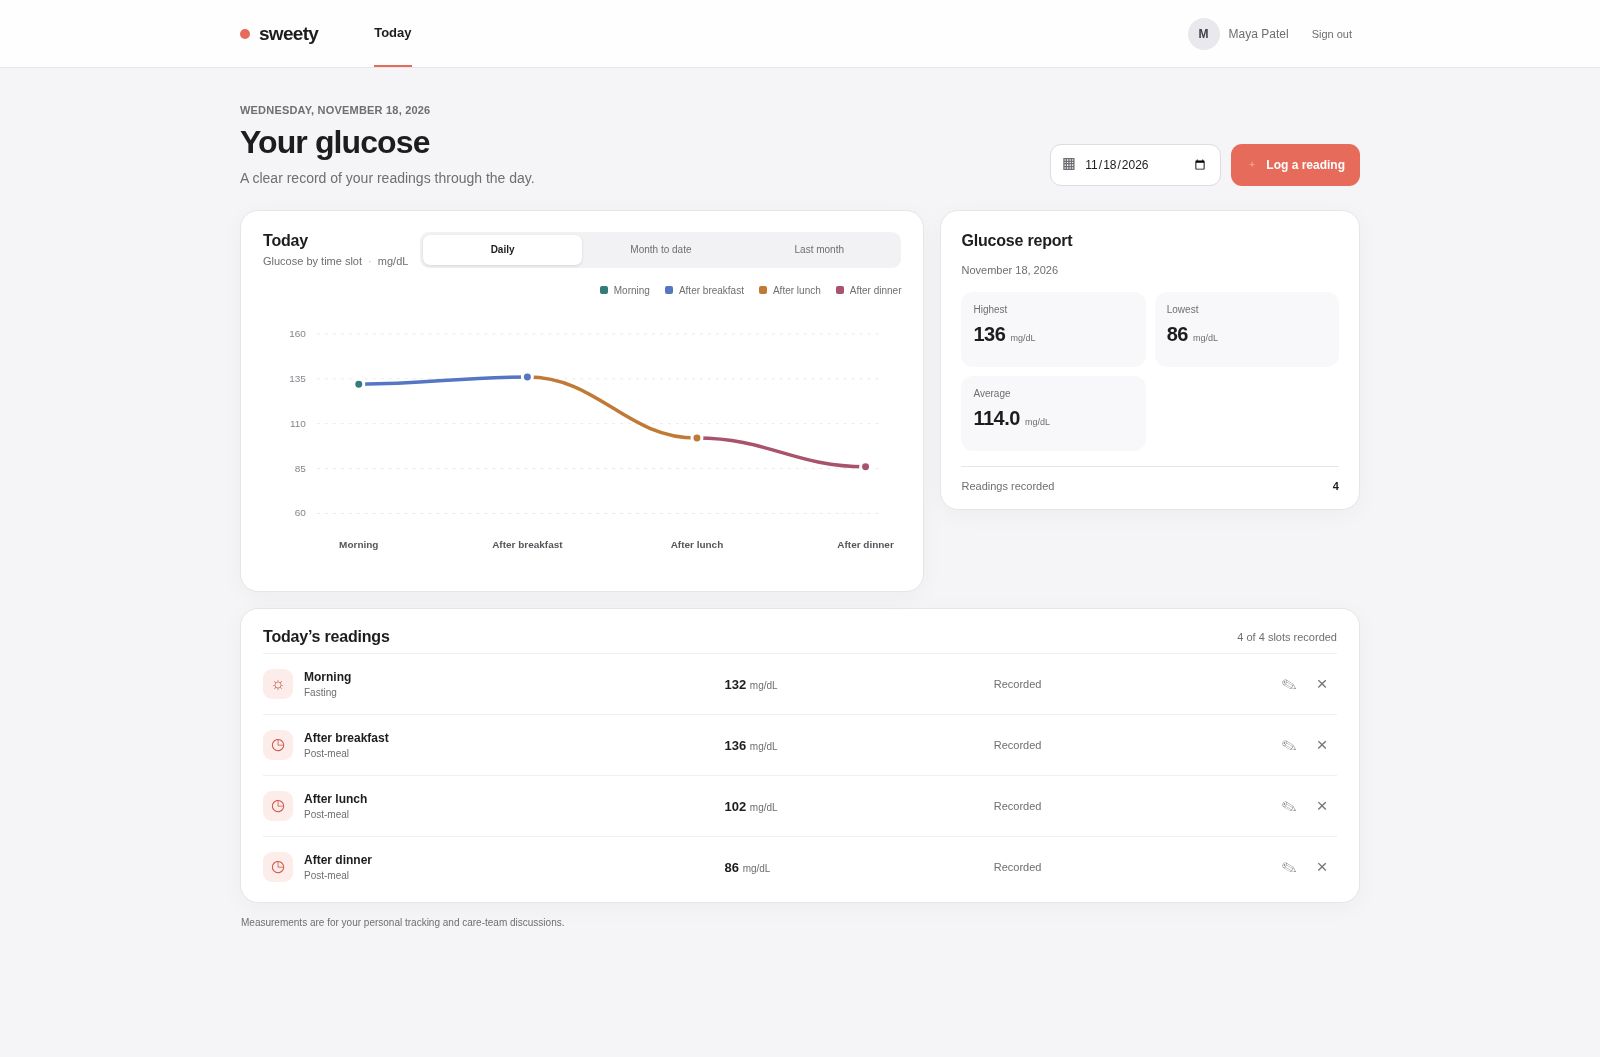
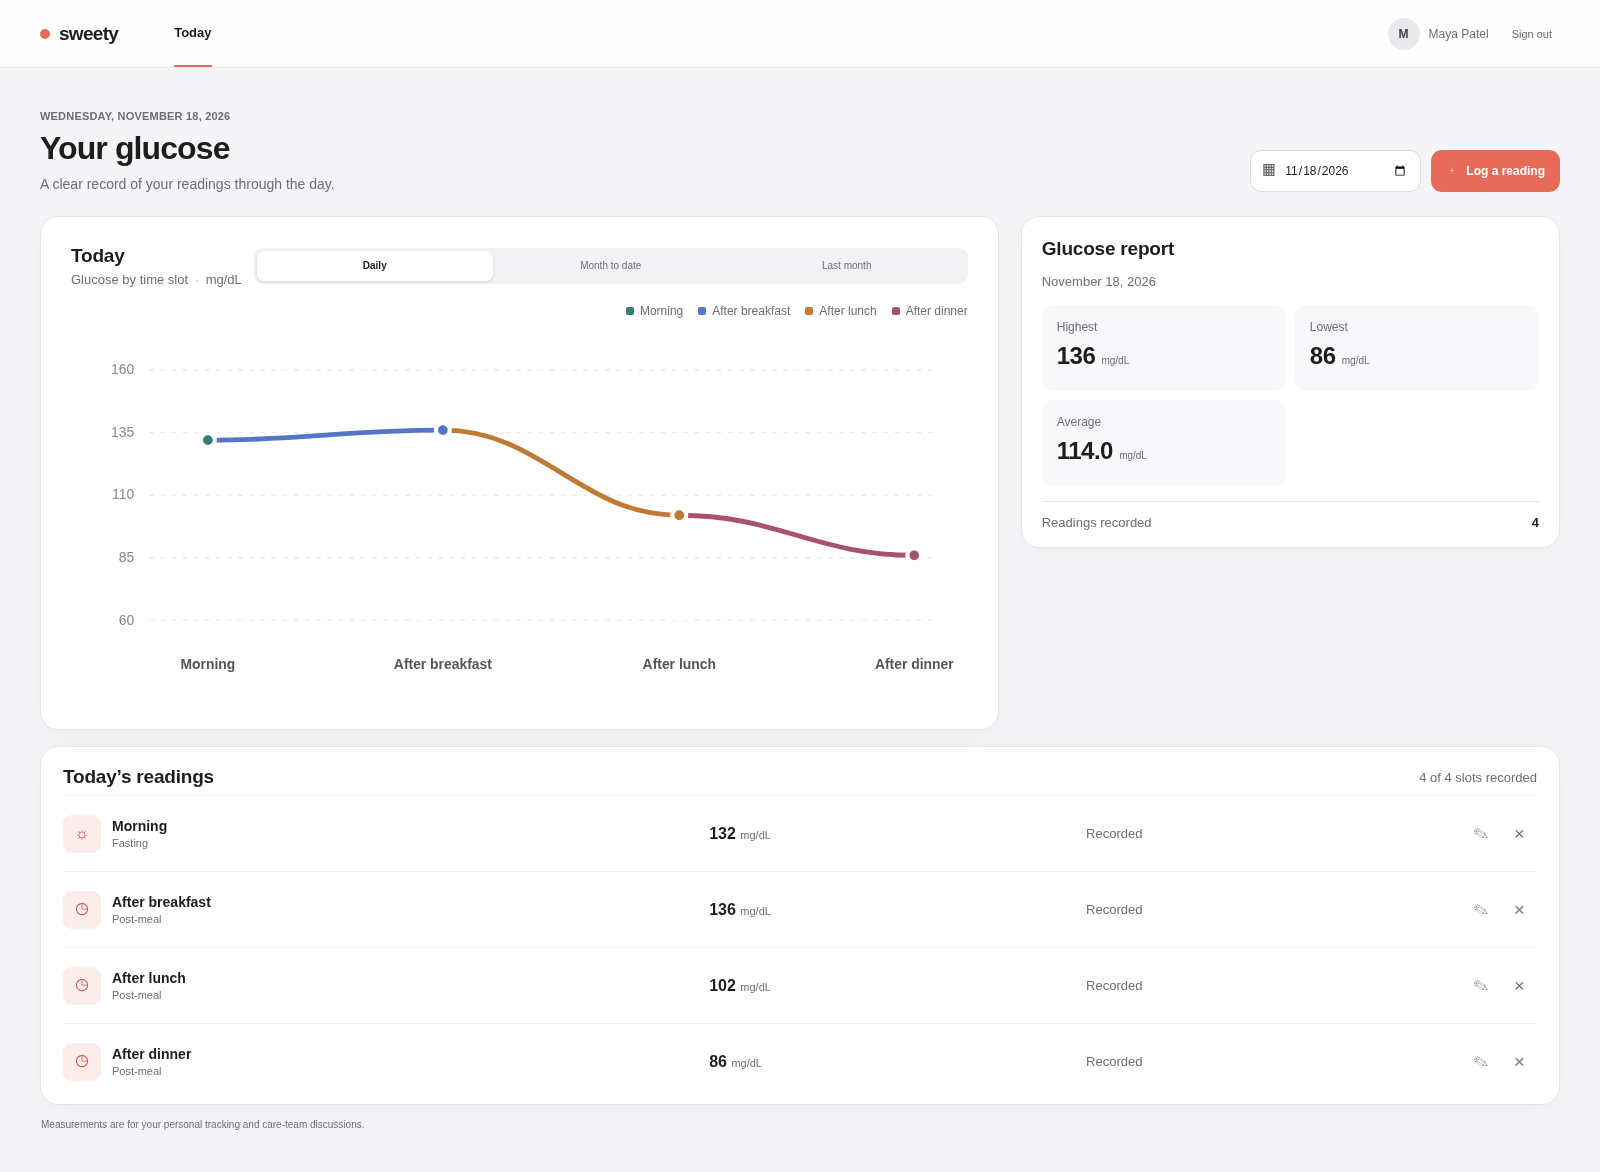
Expand patient dashboard components

diff --git a/client/src/App.jsx b/client/src/App.jsx
@@ -234,24 +234,24 @@ function Dashboard({ session, onSignOut }) {
   const bySlot = useMemo(() => Object.fromEntries(readings.map(reading => [reading.slot, reading])), [readings]);
   const isToday = selectedDate === todayISO();
   return <div className="app-shell">
-    <header className="topbar"><div className="topbar-inner">
+    <header className="topbar patient-topbar"><div className="topbar-inner patient-topbar-inner">
       <a className="brand" href="#today"><span className="brand-dot" />sweety</a>
       <nav className="topnav" aria-label="Main navigation"><a href="#today" aria-current="page">Today</a></nav>
       <div className="user-menu"><div className="user-avatar" aria-hidden="true">{session.user.name.slice(0, 1).toUpperCase()}</div><span>{session.user.name}</span><button type="button" onClick={onSignOut}>Sign out</button></div>
     </div></header>
-    <main className="dashboard" id="today">
+    <main className="dashboard patient-dashboard" id="today">
       <section className="page-heading"><div><p className="eyebrow">{displayFullDate(selectedDate).toUpperCase()}</p><h1>Your glucose</h1><p className="page-description">A clear record of your readings through the day.</p></div>
         <div className="heading-actions"><label className="date-control" htmlFor="selected-date"><span aria-hidden="true">▦</span><input id="selected-date" type="date" max={todayISO()} value={selectedDate} onChange={event => setSelectedDate(event.target.value)} /></label><button className="button primary" type="button" onClick={() => setEditing({ date: selectedDate, slot: firstOpenSlot(bySlot), value: '' })}><span aria-hidden="true">＋</span> Log a reading</button></div>
       </section>
       {error && <div className="notice error-notice" role="alert">{error}</div>}
-      <section className="overview-grid" aria-label="Daily glucose chart and report">
-        <article className="card chart-card"><DailyLineChart readings={range === 'daily' ? readings : report?.range === range ? report.readings : []} isToday={isToday} selectedDate={selectedDate} range={range} rangeStart={report?.start} rangeEnd={report?.end} loading={loading && range !== 'daily' && report?.range !== range} onRangeChange={setRange} /></article>
-        <article className="card report-card" id="report"><div className="report-title"><h2>Glucose report</h2></div>
+      <section className="overview-grid patient-overview-grid" aria-label="Daily glucose chart and report">
+        <article className="card chart-card patient-chart-card"><DailyLineChart readings={range === 'daily' ? readings : report?.range === range ? report.readings : []} isToday={isToday} selectedDate={selectedDate} range={range} rangeStart={report?.start} rangeEnd={report?.end} loading={loading && range !== 'daily' && report?.range !== range} onRangeChange={setRange} /></article>
+        <article className="card report-card patient-report-card" id="report"><div className="report-title"><h2>Glucose report</h2></div>
           <p className="report-range">{report ? report.start === report.end ? displayDate(report.start) : `${displayDate(report.start)} – ${displayDate(report.end)}` : 'Loading report…'}</p>
           {report?.count ? <><div className="stat-grid"><Stat label="Highest" value={report.highest} /><Stat label="Lowest" value={report.lowest} /><Stat label="Average" value={Number(report.average).toFixed(1)} /></div><div className="reading-count"><span>Readings recorded</span><strong>{report.count}</strong></div></> : !loading && <div className="empty-report"><span className="empty-mark">↗</span><strong>No readings in this period</strong><span>Log a reading to start building your report.</span></div>}
         </article>
       </section>
-      <section className="card log-card" aria-labelledby="readings-title"><div className="log-heading"><h2 id="readings-title">{isToday ? 'Today’s readings' : 'Daily readings'}</h2><span>{readings.length} of 4 slots recorded</span></div>
+      <section className="card log-card patient-log-card" aria-labelledby="readings-title"><div className="log-heading"><h2 id="readings-title">{isToday ? 'Today’s readings' : 'Daily readings'}</h2><span>{readings.length} of 4 slots recorded</span></div>
         {loading ? <div className="loading-rows">Loading your readings…</div> : <div>{SLOT_LIST.map(slot => <ReadingRow key={slot.id} slot={slot} reading={bySlot[slot.id]} onEdit={() => setEditing(bySlot[slot.id] || { date: selectedDate, slot: slot.id, value: '' })} onDelete={deleteReading} />)}</div>}
       </section>
       <p className="page-foot">Measurements are for your personal tracking and care-team discussions.</p>

diff --git a/client/src/styles.css b/client/src/styles.css
@@ -48,6 +48,33 @@ h1 { margin: 0; font-size: 32px; font-weight: 680; letter-spacing: -.9px; line-h
 .overview-grid { display: grid; grid-template-columns: minmax(0, 1.55fr) minmax(320px, .95fr); align-items: start; gap: 16px; }
 .card { min-width: 0; border: 1px solid var(--line); border-radius: 18px; background: var(--surface); box-shadow: 0 5px 24px rgba(29,29,31,.035); }
 .chart-card { padding: 21px 22px 14px; }
+.patient-topbar-inner { width: min(1680px, calc(100% - 80px)); }
+.patient-dashboard { width: min(1680px, calc(100% - 80px)); padding-top: 42px; }
+.patient-overview-grid { grid-template-columns: minmax(0, 1.6fr) minmax(360px, .9fr); gap: 22px; }
+.patient-chart-card { padding: 28px 30px 20px; }
+.patient-chart-card .chart-title h2, .patient-report-card .report-title h2, .patient-log-card .log-heading h2 { font-size: 19px; }
+.patient-chart-card .chart-title p { font-size: 13px; }
+.patient-chart-card .chart-legend { font-size: 12px; }
+.patient-chart-card .daily-line-chart { aspect-ratio: 760 / 330; }
+.patient-report-card { padding: 26px; }
+.patient-report-card .range-tabs button { min-height: 38px; font-size: 12px; }
+.patient-report-card .report-range { font-size: 13px; }
+.patient-report-card .stat { min-height: 86px; padding: 15px; }
+.patient-report-card .stat span { font-size: 12px; }
+.patient-report-card .stat strong { font-size: 24px; }
+.patient-report-card .stat small { font-size: 10px; }
+.patient-report-card .reading-count { font-size: 13px; }
+.patient-log-card { padding: 24px 28px 10px; }
+.patient-log-card .log-heading h2 { font-size: 19px; }
+.patient-log-card .log-heading span { font-size: 13px; }
+.patient-log-card .reading-row { min-height: 76px; }
+.patient-log-card .slot-badge { width: 38px; height: 38px; }
+.patient-log-card .slot-name-wrap strong { font-size: 14px; }
+.patient-log-card .slot-name-wrap small { font-size: 11px; }
+.patient-log-card .row-value { font-size: 16px; }
+.patient-log-card .row-value small { font-size: 11px; }
+.patient-log-card .row-status { font-size: 13px; }
+.patient-log-card .icon-button { width: 36px; height: 36px; }
 .doctor-topbar-inner { width: min(1680px, calc(100% - 80px)); }
 .doctor-dashboard { width: min(1680px, calc(100% - 80px)); padding-top: 42px; }
 .doctor-layout { display: grid; grid-template-columns: minmax(280px, 330px) minmax(0, 1fr); align-items: start; gap: 22px; }
